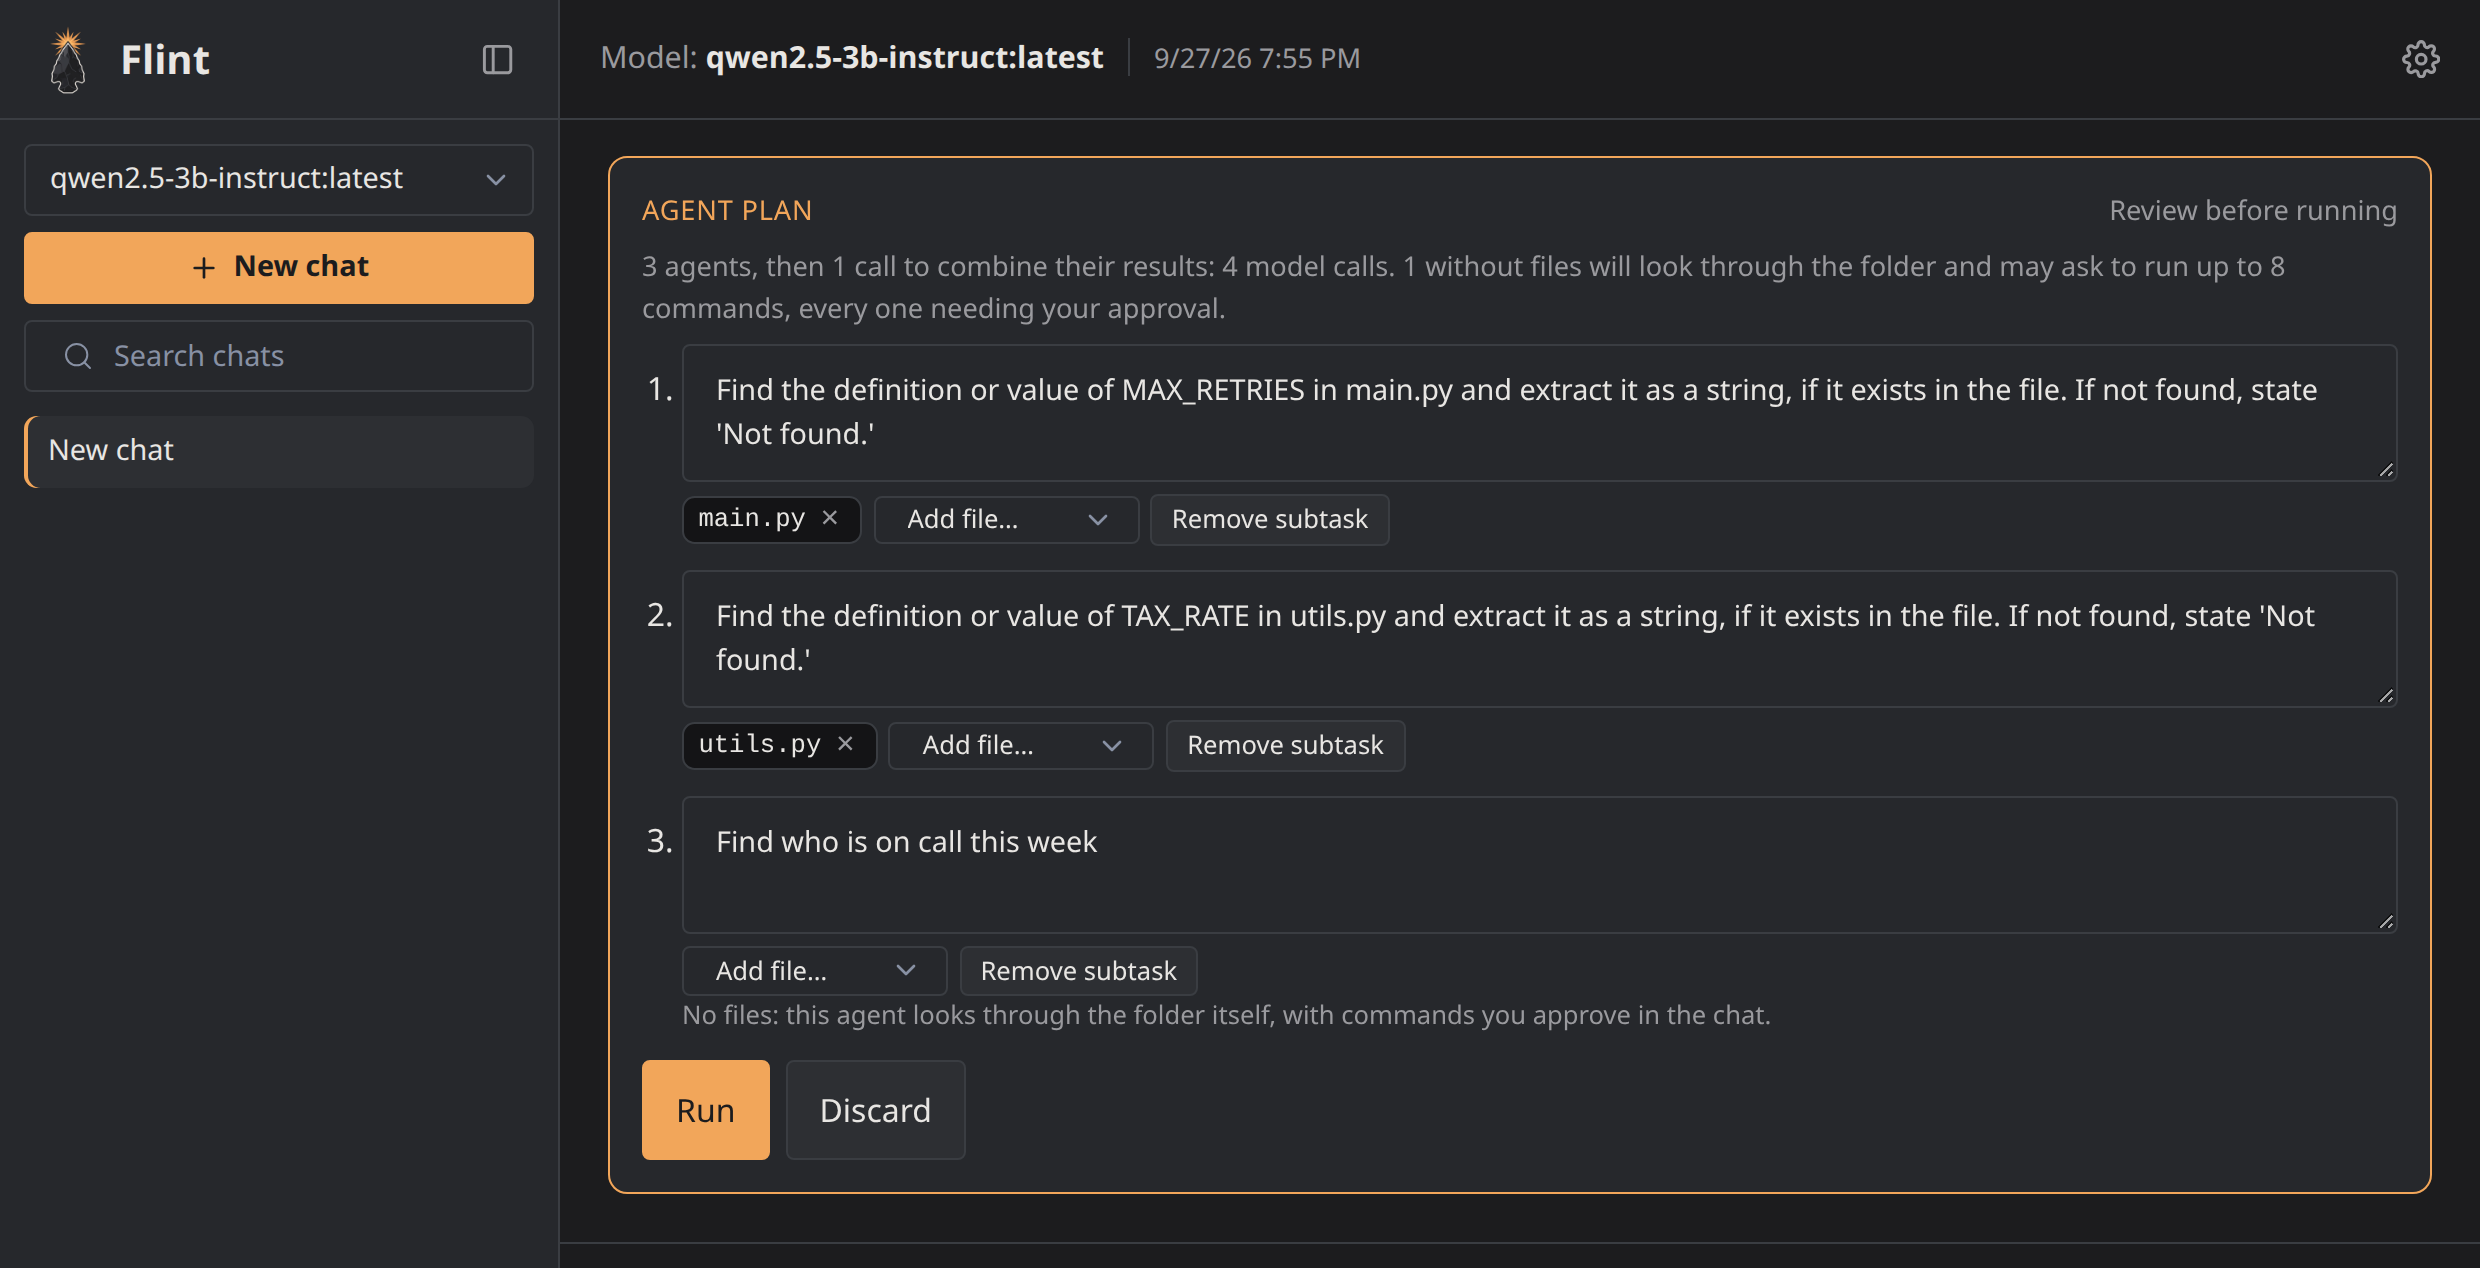
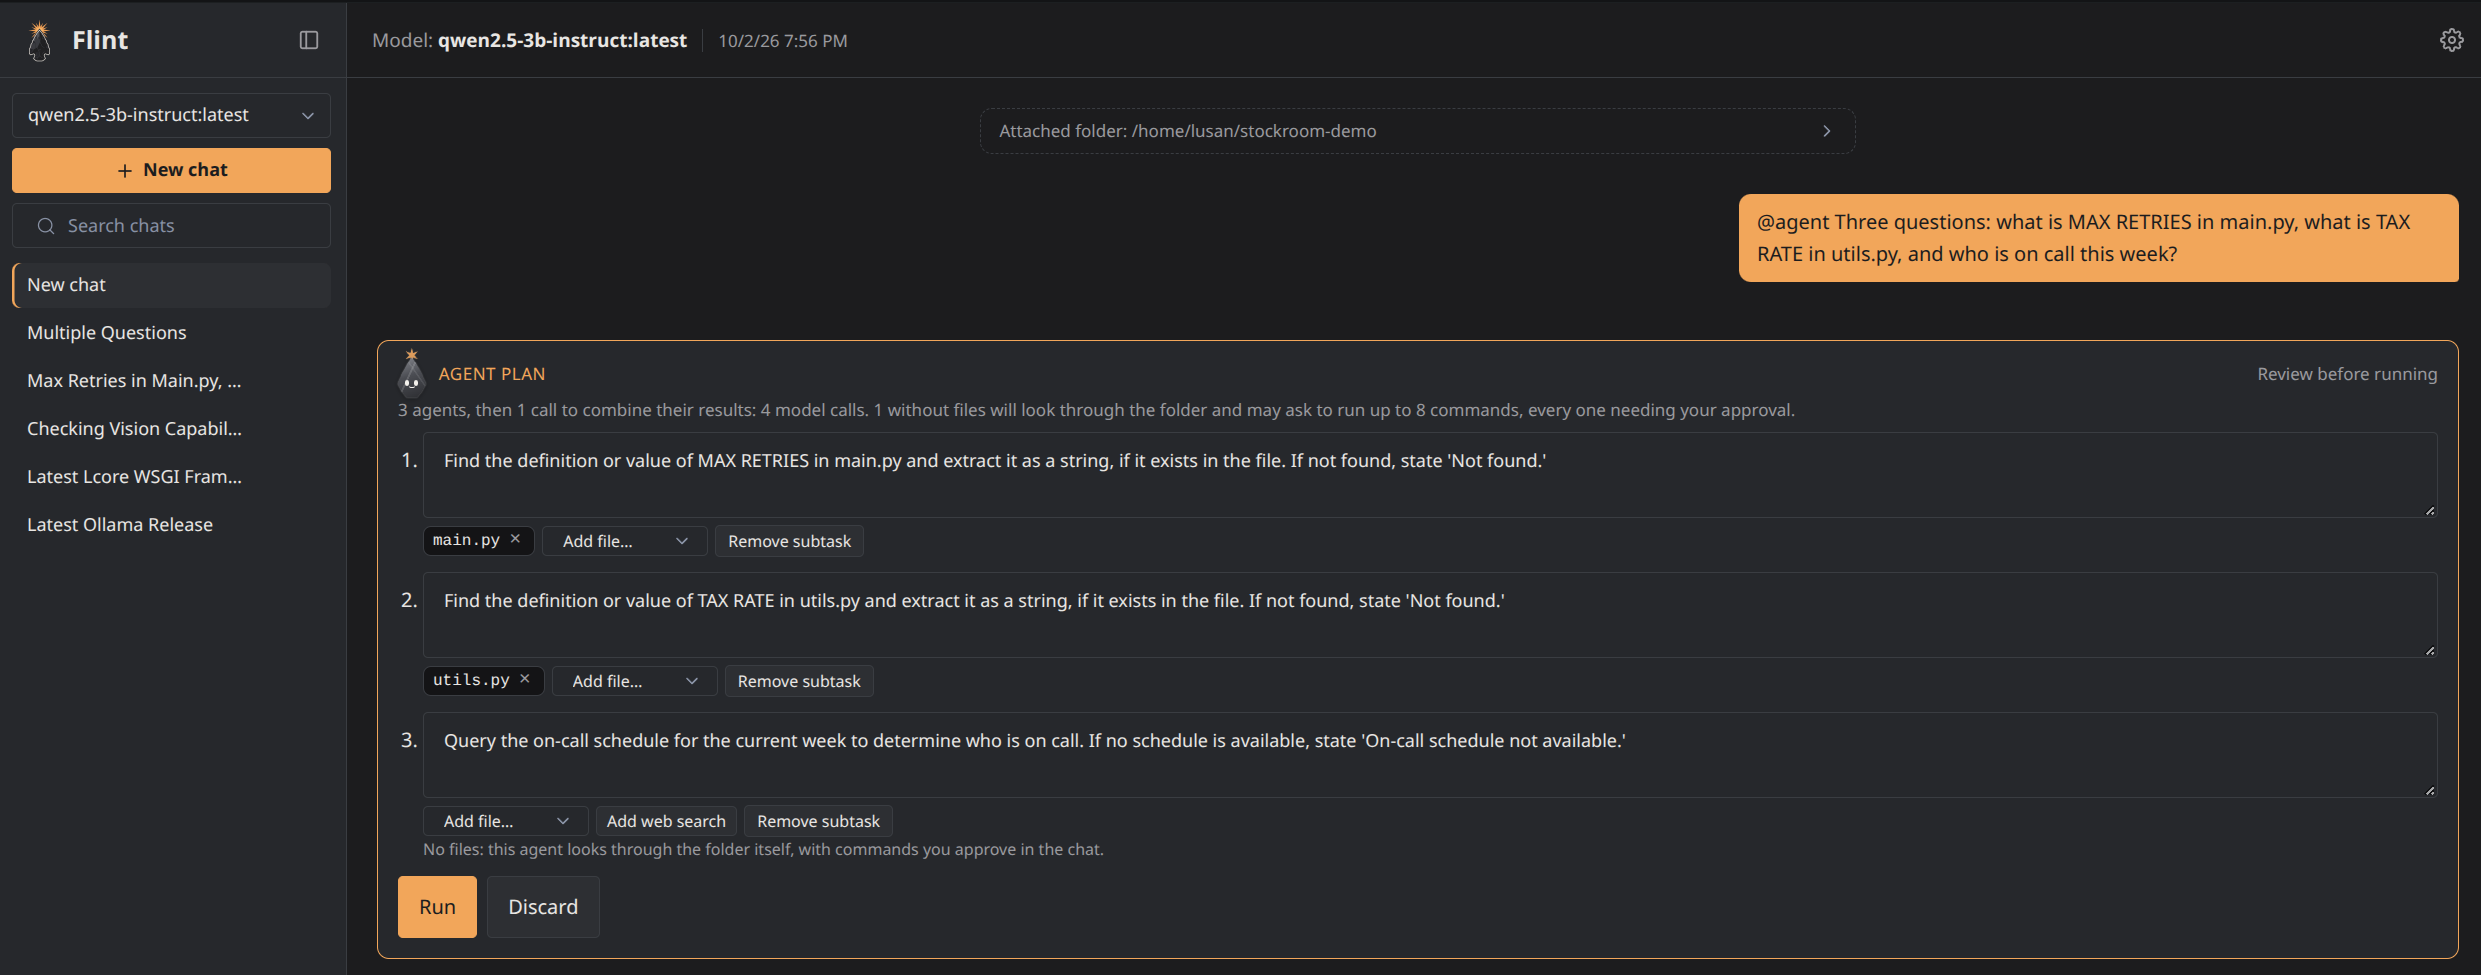
Retake the agent screenshots with the flint on the plan card

diff --git a/docs/index.html b/docs/index.html
@@ -158,7 +158,7 @@ subtasks, each run by its own agent with a clean context window, and
 writes one answer from their results. You approve the plan and every
 command an agent asks to run.
 (<a href="features.html#agents-agent">features</a>, <a href="changelog.html">changelog</a>)</p>
-<p><img alt="Agent 3 asks to run cat config.yaml in the main chat, with Approve, Deny and Reply instead; the label reads Agents 2/3, 1 waiting" src="images/agent-approval.png"/></p>
+<p><img alt="Agent 3 asks to run a grep in the main chat, with Approve, Deny and Reply instead, under the folded agent plan card and its flint" src="images/agent-approval.png"/></p>
 <h2 id="quick-start">Quick start<a aria-label="Link to Quick start" class="header-anchor" href="#quick-start">#</a></h2>
 <p>You need <a href="https://ollama.com">Ollama</a> running with a model pulled, for
 example <code>ollama pull qwen2.5:3b</code>.</p>
@@ -218,7 +218,7 @@ go<span class="w"> </span>run<span class="w"> </span>.
 </ul>
 <h2 id="screenshots">Screenshots<a aria-label="Link to Screenshots" class="header-anchor" href="#screenshots">#</a></h2>
 <p><img alt="An @agent plan: three subtasks with their files, one left to look through the folder itself, waiting for Run or Discard" src="images/agent-plan.png"/></p>
-<p><img alt="Agent 3 asks to run cat config.yaml in the main chat, with Approve, Deny and Reply instead; the label reads Agents 2/3, 1 waiting" src="images/agent-approval.png"/></p>
+<p><img alt="Agent 3 asks to run a grep in the main chat, with Approve, Deny and Reply instead, under the folded agent plan card and its flint" src="images/agent-approval.png"/></p>
 <p><img alt="The combined answer in the chat, under a From 3 agents block listing what each agent found" src="images/agent-answer.png"/></p>
 <p><img alt="The agents window: each agent with its task and inputs, and Agent 3's transcript with the commands it ran and their output" src="images/agents-window.png"/></p>
 <p><img alt="An @web question answered from three ranked sources, listed above the answer" src="images/web-query.png"/></p>

diff --git a/docs/features.html b/docs/features.html
@@ -493,7 +493,7 @@ decides what runs.</p>
 <li><code>@agent</code> isn't added to the chat history while it's only a plan, and an
   edit can't turn a message into one.</li>
 </ul>
-<p><img alt="An agent asks to run a command in the main chat; the label reads Agents 2/3, 1 waiting" src="images/agent-approval.png"/></p>
+<p><img alt="An agent asks to run a command in the main chat, under the folded plan card and its waiting flint" src="images/agent-approval.png"/></p>
 <p><img alt="The combined answer under a From 3 agents block" src="images/agent-answer.png"/></p>
 <p><img alt="The agents window, with Agent 3's commands and their output" src="images/agents-window.png"/></p>
 <h2 id="long-conversations">Long conversations<a aria-label="Link to Long conversations" class="header-anchor" href="#long-conversations">#</a></h2>

diff --git a/README.md b/README.md
@@ -26,7 +26,7 @@ command an agent asks to run.
 ([agents](docs/features.html#agents-agent), [changelog](docs/changelog.html))
 
 <p align="center">
-  <img src="docs/images/agent-approval.png" alt="Agent 3 asks to run cat config.yaml in the main chat, with Approve, Deny and Reply instead; the label reads Agents 2/3, 1 waiting" width="900">
+  <img src="docs/images/agent-approval.png" alt="Agent 3 asks to run a grep in the main chat, with Approve, Deny and Reply instead, under the folded agent plan card and its flint" width="900">
 </p>
 
 ## Quick start
